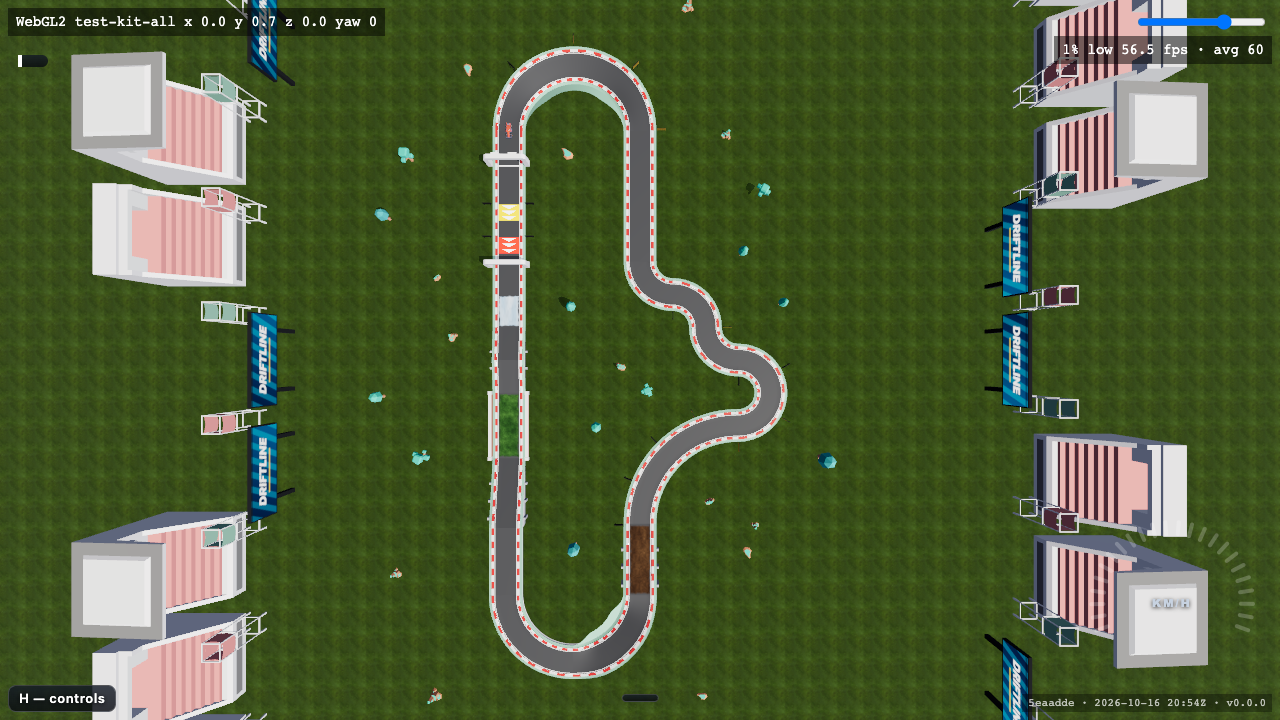
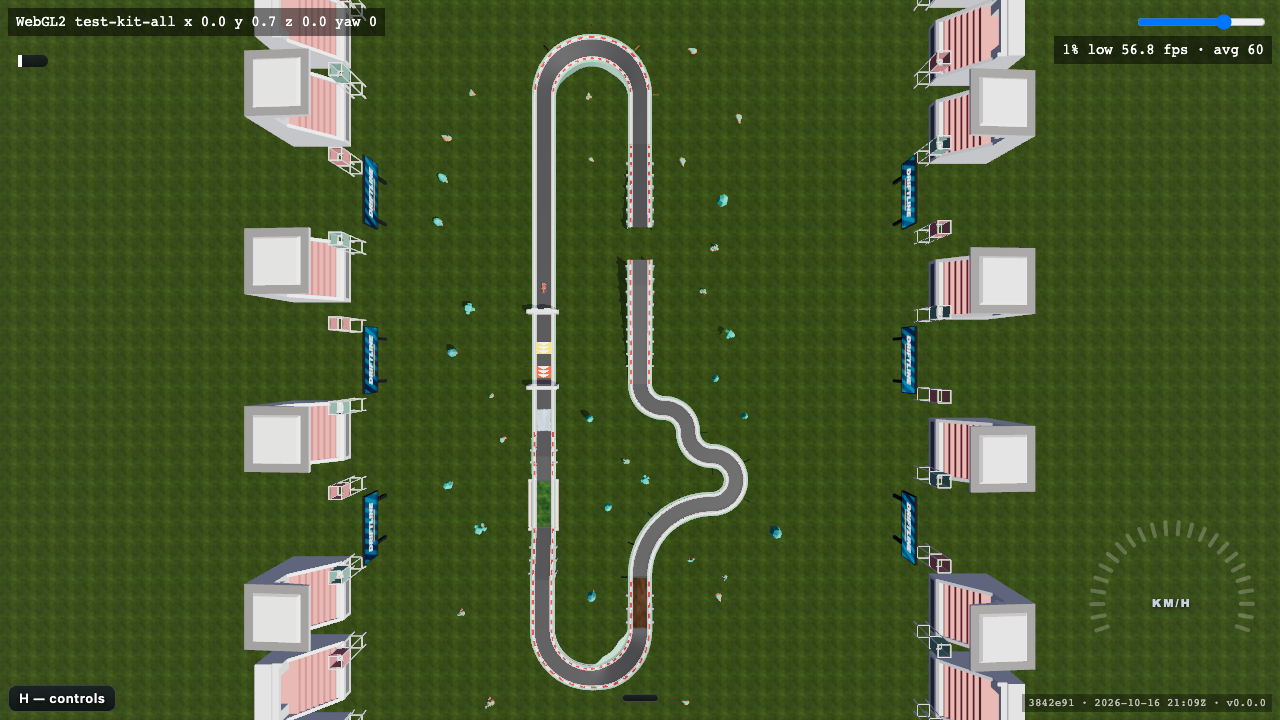
campaign A03-A05 from the piece kit; add gap-jump kit piece
- A03 plunge (green): 8 m deck plunges two levels into a banked 180
- A04 knot (blue): figure-eight, 8 m deck over the start straight, hairpin switchback
- A05 leap (red): 12 m climb, gap-jump onto a 4 m deck, ice into a banked 180
- gap-jump: crossover's kicker/gap/landing on the grid, two levels down;
  test-kit-all uses it, docs/track-kit.md row + shots
- all three in full-lap, cut searches (grass, skilled arcs, deck drop-offs),
  decks/pillars, scenery and topcam tests; full-throttle jump test on leap
  and test-kit-all; medals from measured autopilot laps

diff --git a/src/render/track/geometry.test.ts b/src/render/track/geometry.test.ts
@@ -2,6 +2,7 @@ import { describe, expect, it } from 'vitest'
 import { readFileSync } from 'node:fs'
 import { poses, SEGMENT_TYPES, validate } from '../../track/schema'
 import { FIXTURE_TRACK } from '../../track/fixture'
+import { resolveTrack } from '../../track/kit'
 import { trackSurface } from '../../physics'
 import type { Segment, Track } from '../../track/schema'
 import { buildApron, buildDeck, buildRampSupport, buildTrack, CENTRE_COLUMN, DECK_MIN_HEIGHT, DECK_PILLAR_CLEAR, planDeckPillars, PROFILE, rowCenter, TRACK_WIDTH, sampleSegment, SURFACE_LIFT, type SegmentGeometry } from './geometry'
@@ -151,7 +152,8 @@ describe('ramp profile', () => {
 })
 
 describe('multi-level decks', () => {
-  const load = (name: string) => JSON.parse(readFileSync(`assets/track/${name}.json`, 'utf8')) as Track
+  // Kit tracks compile to a plain Track; spline tracks pass through.
+  const load = (name: string) => resolveTrack(JSON.parse(readFileSync(`assets/track/${name}.json`, 'utf8'))) as Track
   const road = (track: Track) => {
     const ps = poses(track)
     return track.segments.flatMap((seg, i) =>
@@ -159,7 +161,7 @@ describe('multi-level decks', () => {
     )
   }
 
-  it.each(['crossover', 'tower'])('%s: every elevated flat piece gets a deck, gaps and ground pieces none', (name) => {
+  it.each(['crossover', 'tower', 'plunge', 'knot', 'leap'])('%s: every elevated flat piece gets a deck, gaps and ground pieces none', (name) => {
     const track = load(name)
     const ps = poses(track)
     track.segments.forEach((seg, i) => {
@@ -168,7 +170,7 @@ describe('multi-level decks', () => {
     })
   })
 
-  it.each(['crossover', 'tower'])('%s: deck pillars stand on open ground, never on the road underneath', (name) => {
+  it.each(['crossover', 'tower', 'plunge', 'knot', 'leap'])('%s: deck pillars stand on open ground, never on the road underneath', (name) => {
     const track = load(name)
     const pillars = planDeckPillars(track)
     expect(pillars.length).toBeGreaterThan(5)
@@ -179,7 +181,7 @@ describe('multi-level decks', () => {
     }
   })
 
-  it.each(['test1', 'test2', 'crossover', 'tower'])('%s: no ramp or drop wall stands on another part of the lap', (name) => {
+  it.each(['test1', 'test2', 'crossover', 'tower', 'plunge', 'knot', 'leap'])('%s: no ramp or drop wall stands on another part of the lap', (name) => {
     const track = load(name)
     const pts = road(track)
     for (const a of pts.filter((p) => ['ramp', 'drop'].includes(track.segments[p.seg].type))) {

diff --git a/src/race/full-lap.test.ts b/src/race/full-lap.test.ts
@@ -22,6 +22,11 @@ const CASES = [
   // Every kit piece type once: the catalogue track behind docs/track-kit.md.
   { track: load('test-kit-all'), minMs: 15_000, maxMs: 60_000 },
   { track: load('tower'), minMs: 40_000, maxMs: 65_000 },
+  // Kit campaign levels A03-A05: autopilot ~56 / ~63 / ~69 s, a ~38 / ~42 / ~46 s human lap; medals at
+  // crossover's and tower's ratios (author = 0.6 × autopilot, gold +8 %, silver +22 %, bronze +42 %).
+  { track: load('plunge'), minMs: 45_000, maxMs: 70_000 },
+  { track: load('knot'), minMs: 50_000, maxMs: 75_000 },
+  { track: load('leap'), minMs: 55_000, maxMs: 85_000 },
 ]
 
 describe.each(CASES)('$track.name end to end', ({ track, minMs, maxMs }) => {
@@ -89,10 +94,11 @@ describe.each(CASES)('$track.name end to end', ({ track, minMs, maxMs }) => {
 })
 
 // The conservative autopilot slows to jump speed before every ramp; a human floors it. At full
-// throttle the car flies ~9 m over crossover's landing checkpoint, which must still count.
-describe('crossover gap jump at full throttle', () => {
-  it('a car flat out from the long descent straight over the gap still scores every gate and finishes', () => {
-    const track = load('crossover')
+// throttle the car flies ~9 m over crossover's landing checkpoint, which must still count. leap and
+// test-kit-all jump the kit's gap-jump piece, crossover's jump on the grid.
+describe.each(['crossover', 'leap', 'test-kit-all'])('%s gap jump at full throttle', (name) => {
+  it('a car flat out from the run-up over the gap still scores every gate and finishes', () => {
+    const track = load(name)
     const gapAt = track.segments.findIndex((s) => s.type === 'gap')
     // centreline() emits 20 samples per segment: no slowdown from the descent straight to the landing.
     const samples = centreline(track).map((s, k) => {

diff --git a/src/track/kit.test.ts b/src/track/kit.test.ts
@@ -3,7 +3,7 @@ import { describe, expect, it } from 'vitest'
 import { trackSurface } from '../physics'
 import { buildDeck, DECK_MIN_HEIGHT, lateralPoint, planDeckPillars, PROFILE, sampleSegment } from '../render/track/geometry'
 import { compileKit, connectorPose, isKitTrack, KIT_PIECES, LEVEL, onGrid, outConnector, resolveTrack, type KitTrack, type PieceDef } from './kit'
-import { CELL, exitPose, poses, turnSign, validate, type Pose, type Turn } from './schema'
+import { CELL, exitPose, partialPose, poses, turnSign, validate, type Pose, type Turn } from './schema'
 
 const EPS = 1e-6
 const turnsOf = (def: PieceDef): Turn[] => (def.turns ? ['left', 'right'] : ['left'])
@@ -97,6 +97,13 @@ describe('track piece kit', () => {
         const surface = trackSurface({ name: def.id, start: entry, segments, gates: [] }, { groundY: null })
         let p = entry
         for (const seg of segments) {
+          if (seg.type === 'gap') {
+            // The jump's air: no road between the kicker and the landing.
+            const mid = partialPose(p, seg, 0.5)
+            expect(surface.raycast({ x: mid.x, y: mid.y + 2, z: mid.z }, { x: 0, y: -1, z: 0 }, 10), `${def.id} gap`).toBeNull()
+            p = exitPose(p, seg)
+            continue
+          }
           for (const t of [0, 0.25, 0.5, 0.75, 1]) {
             // Ends nudged inside the piece: exactly on the joint an arc's sweep test can wrap to 2π.
             const s = sampleSegment(p, seg, Math.min(1 - 1e-7, Math.max(1e-7, t)))

diff --git a/src/track/kit.ts b/src/track/kit.ts
@@ -14,7 +14,7 @@ export type KitSurface = 'road' | 'dirt' | 'ice' | 'grass'
 
 export const KIT_SURFACES: readonly KitSurface[] = ['road', 'dirt', 'ice', 'grass']
 
-/** What leaves a connector: road the car drives on. ('air' arrives with jump pieces.) */
+/** What leaves a connector: road the car drives on. A jump keeps its air inside the piece (gap-jump). */
 export type ConnectorKind = 'road'
 
 /**
@@ -118,6 +118,22 @@ export const KIT_PIECES: readonly PieceDef[] = [
     turns: true,
     out: road(0, 4, 0, 2),
     expand: (turn) => plain([{ type: 'banked', turn, radius: 2 * CELL, angle: 180, bank: KIT_BANK }]),
+  },
+  {
+    // Kicker, gap, landing: crossover's jump on the grid. Both connectors are road; the air is
+    // inside the piece. The landing slope lies under the flight arc from ~16 m/s (the autopilot's
+    // jump speed) to flat out, so slow and fast cars both touch down on the downslope.
+    id: 'gap-jump',
+    family: 'slope',
+    surfaces: ROAD_ONLY,
+    turns: false,
+    out: road(6, 0, -2, 0),
+    expand: () =>
+      plain([
+        { type: 'ramp', length: CELL, rise: 1 },
+        { type: 'gap', length: 1.4 * CELL, fall: LEVEL },
+        { type: 'drop', length: 3.6 * CELL, fall: 2 * LEVEL - 3 },
+      ]),
   },
   flat('turbo', 'effect', { zones: [{ kind: 'turbo', segment: 0, from: 0.25, to: 0.75 }] }),
   flat('turbo-red', 'effect', { zones: [{ kind: 'turbo-red', segment: 0, from: 0.25, to: 0.75 }] }),

diff --git a/src/race/cuts.test.ts b/src/race/cuts.test.ts
@@ -95,7 +95,7 @@ function legs(track: Track): { name: string; from: Pose; to: Pose }[] {
   return out
 }
 
-describe.each(['test1', 'test2', 'crossover', 'tower'])('%s grass cuts', (name) => {
+describe.each(['test1', 'test2', 'crossover', 'tower', 'plunge', 'knot', 'leap'])('%s grass cuts', (name) => {
   const track = loadTrack(name)
   const surface = trackSurface(track)
   const road = roadRun(track)
@@ -159,7 +159,7 @@ function follow(start: CarState, samples: Sample[], target: Pose, surface: Surfa
   return { ticks: Infinity, grass }
 }
 
-describe.each(['test1', 'test2', 'crossover', 'tower'])('%s skilled grass lines', (name) => {
+describe.each(['test1', 'test2', 'crossover', 'tower', 'plunge', 'knot', 'leap'])('%s skilled grass lines', (name) => {
   const track = loadTrack(name)
   const surface = trackSurface(track)
   const road = roadRun(track)
@@ -262,7 +262,7 @@ function dropRun(start: CarState, approach: Point, target: Pose, surface: Surfac
   return { ticks: Infinity, grass }
 }
 
-describe.each(['crossover', 'tower'])('%s deck drop-offs', (name) => {
+describe.each(['crossover', 'tower', 'plunge', 'knot', 'leap'])('%s deck drop-offs', (name) => {
   const track = loadTrack(name)
   const surface = trackSurface(track)
   const road = roadRun(track)

diff --git a/src/track/catalogue.test.ts b/src/track/catalogue.test.ts
@@ -50,6 +50,11 @@ describe('track catalogue', () => {
     expect(ranks.every((r, i) => r >= 0 && (i === 0 || r >= ranks[i - 1]))).toBe(true)
   })
 
+  it('every campaign level ships, so the Campaign group lists A01-A05 in order', () => {
+    for (const l of CAMPAIGN) expect(shipped).toContain(l.track)
+    expect(trackGroups(shipped)[0].entries.map((e) => e.label)).toEqual(['A01', 'A02', 'A03', 'A04', 'A05'])
+  })
+
   it('every listed test track ships, and ≥ 5 single-feature test tracks exist', () => {
     for (const t of TEST_TRACKS) expect(shipped).toContain(t)
     expect(shipped.filter((n) => n.startsWith('test-')).length).toBeGreaterThanOrEqual(5)

diff --git a/src/render/scenery.test.ts b/src/render/scenery.test.ts
@@ -4,7 +4,7 @@ import { loadLap } from '../track/registry'
 import { FIXTURE_TRACK } from '../track/fixture'
 import { CLEARANCE, planScenery } from './scenery'
 
-const tracks = { test1: loadLap('test1'), test2: loadLap('test2'), crossover: loadLap('crossover'), tower: loadLap('tower'), fixture: FIXTURE_TRACK }
+const tracks = { test1: loadLap('test1'), test2: loadLap('test2'), crossover: loadLap('crossover'), tower: loadLap('tower'), plunge: loadLap('plunge'), knot: loadLap('knot'), leap: loadLap('leap'), fixture: FIXTURE_TRACK }
 
 describe('planScenery', () => {
   for (const [name, track] of Object.entries(tracks)) {

diff --git a/src/track/catalogue.ts b/src/track/catalogue.ts
@@ -18,6 +18,10 @@ export interface CampaignLevel {
 export const CAMPAIGN: readonly CampaignLevel[] = [
   { id: 'A01', track: 'crossover', tier: 'white' },
   { id: 'A02', track: 'tower', tier: 'white' },
+  // Built from the piece kit (src/track/kit.ts), in rising difficulty.
+  { id: 'A03', track: 'plunge', tier: 'green' },
+  { id: 'A04', track: 'knot', tier: 'blue' },
+  { id: 'A05', track: 'leap', tier: 'red' },
 ]
 
 /** Test-track order; any other `test*` track follows these. */

diff --git a/src/render/topcam.test.ts b/src/render/topcam.test.ts
@@ -9,7 +9,7 @@ describe('?cam=top', () => {
     expect(topCamRequested('?freeze=1')).toBe(false)
   })
 
-  for (const name of ['test1', 'test2', 'crossover', 'tower']) {
+  for (const name of ['test1', 'test2', 'crossover', 'tower', 'plunge', 'knot', 'leap']) {
     it(`${name}: every centreline point is inside the view`, () => {
       const track = loadLap(name)
       const fov = 70

diff --git a/docs/track-kit.md b/docs/track-kit.md
@@ -28,7 +28,7 @@ Trackmania-style drivable pieces that snap on a grid (`src/track/kit.ts`). A tra
 }
 ```
 
-The lap must close back onto its start connector; `compileKit()` throws naming the piece otherwise. `test-kit` is the demo, `test-kit-all` uses every piece once.
+The lap must close back onto its start connector; `compileKit()` throws naming the piece otherwise. `test-kit` is the demo, `test-kit-all` uses every piece once. The campaign levels A03 `plunge`, A04 `knot` and A05 `leap` are kit tracks too.
 
 ![test-kit-all from above](track-kit-overview.png)
 
@@ -50,7 +50,8 @@ Screenshots: live site, `?track=test-kit-all&cam=fly&freeze=1&renderer=webgl2` p
 | `slope-down` | slope | (2, 0, −1, 0) | `drop` 20 m, −4 m | road, dirt, ice, grass | One level down; here in dirt. | [`x=26&y=13&z=152&yaw=147.5&pitch=-22.9`](https://bborbe.github.io/driftline/?track=test-kit-all&x=26&y=13&z=152&yaw=147.5&pitch=-22.9&cam=fly&freeze=1&renderer=webgl2) | ![slope-down](track-kit/slope-down.png) |
 | `bump` | slope | (2, 0, 0, 0) | `ramp` 10 m +1 m, `drop` 10 m −1 m | road, dirt, ice, grass | Unloads the suspension at speed. | [`x=14&y=12&z=48&yaw=-32.5&pitch=-22.9`](https://bborbe.github.io/driftline/?track=test-kit-all&x=14&y=12&z=48&yaw=-32.5&pitch=-22.9&cam=fly&freeze=1&renderer=webgl2) | ![bump](track-kit/bump.png) |
 | `bank-90` | bank | (2, ±2, 0, ±1) | `banked` 90°, r 20 m, 0.26 rad | road | Bank eases in and out inside the piece, so both connectors are flat. | [`x=12.1&y=15&z=140.1&yaw=57.5&pitch=-22.9`](https://bborbe.github.io/driftline/?track=test-kit-all&x=12.1&y=15&z=140.1&yaw=57.5&pitch=-22.9&cam=fly&freeze=1&renderer=webgl2) | ![bank-90](track-kit/bank-90.png) |
-| `bank-180` | bank | (0, ±4, 0, ±2) | `banked` 180°, r 20 m, 0.26 rad | road | Closes the lap back onto the start straight. | [`x=6&y=11&z=2&yaw=147.5&pitch=-22.9`](https://bborbe.github.io/driftline/?track=test-kit-all&x=6&y=11&z=2&yaw=147.5&pitch=-22.9&cam=fly&freeze=1&renderer=webgl2) | ![bank-180](track-kit/bank-180.png) |
+| `bank-180` | bank | (0, ±4, 0, ±2) | `banked` 180°, r 20 m, 0.26 rad | road | Closes the lap back onto the start straight. | [`x=6&y=11&z=-78&yaw=147.5&pitch=-22.9`](https://bborbe.github.io/driftline/?track=test-kit-all&x=6&y=11&z=-78&yaw=147.5&pitch=-22.9&cam=fly&freeze=1&renderer=webgl2) | ![bank-180](track-kit/bank-180.png) |
+| `gap-jump` | slope | (6, 0, −2, 0) | `ramp` 10 m +1 m, `gap` 14 m −4 m, `drop` 36 m −5 m | road | crossover's jump on the grid: kicker, open air, landing slope under the flight arc; flat out it still lands on the slope. Two levels down. | [`x=85&y=12&z=-15&yaw=-90&pitch=-12`](https://bborbe.github.io/driftline/?track=test-kit-all&x=85&y=12&z=-15&yaw=-90&pitch=-12&cam=fly&freeze=1&renderer=webgl2) | ![gap-jump](track-kit/gap-jump.png) |
 | `turbo` | effect | (1, 0, 0, 0) | `straight` 10 m + `turbo` zone 0.25–0.75 | road | Yellow pad; direction from `padForward()`. | [`x=14&y=11&z=3&yaw=-32.5&pitch=-22.9`](https://bborbe.github.io/driftline/?track=test-kit-all&x=14&y=11&z=3&yaw=-32.5&pitch=-22.9&cam=fly&freeze=1&renderer=webgl2) | ![turbo](track-kit/turbo.png) |
 | `turbo-red` | effect | (1, 0, 0, 0) | `straight` 10 m + `turbo-red` zone 0.25–0.75 | road | Red pad: stronger boost. | [`x=14&y=11&z=13&yaw=-32.5&pitch=-22.9`](https://bborbe.github.io/driftline/?track=test-kit-all&x=14&y=11&z=13&yaw=-32.5&pitch=-22.9&cam=fly&freeze=1&renderer=webgl2) | ![turbo-red](track-kit/turbo-red.png) |
 | `checkpoint` | gate | (1, 0, 0, 0) | `straight` 10 m + `checkpoint` gate | road | Solid arch pillars; counts only under the arch. | [`x=14&y=11&z=23&yaw=-32.5&pitch=-22.9`](https://bborbe.github.io/driftline/?track=test-kit-all&x=14&y=11&z=23&yaw=-32.5&pitch=-22.9&cam=fly&freeze=1&renderer=webgl2) | ![checkpoint](track-kit/checkpoint.png) |
@@ -59,6 +60,5 @@ Screenshots: live site, `?track=test-kit-all&cam=fly&freeze=1&renderer=webgl2` p
 
 ## Not in the kit yet
 
-- Jump (ramp + `gap` + landing): the `gap` segment is on master; the piece needs an `air` connector kind.
 - Loops, wallrides, pipes, banks over 0.6 rad: need gravity along the surface normal and multi-valued height.
 - Walls on elevated road and ceilings: barriers stand on y = 0, and road has no body collision.

diff --git a/README.md b/README.md
@@ -16,6 +16,7 @@ The start screen shows two groups (↑/↓ switches group, ←/→ picks a track
 
 - **Campaign** — numbered levels (`A01`, `A02`, …) in difficulty tiers (white → green → blue → red → black), each with author/gold/silver/bronze medals. Order and tiers live in `src/track/catalogue.ts`; a level is listed once its `assets/track/<name>.json` ships.
   - `A01 crossover` and `A02 tower` are multi-level: the road climbs onto concrete decks on pillars and passes over itself. crossover is a figure-eight with an 8 m bridge over the start straight, then a 14 m gap jump (a `gap` segment is open air). tower has a 60 m climb into a steep 34° banked 180 at 12 m, a bridge over the start straight and a 12 m drop into a banked turn. A checkpoint counts from 2 m below its road to 20 m above, so a road under a deck gate never triggers it, while a full-throttle jump over the arch still does.
+  - `A03 plunge`, `A04 knot` and `A05 leap` are built entirely from the [track piece kit](docs/track-kit.md), in rising difficulty. plunge climbs onto an 8 m deck and plunges two levels straight into a banked 180. knot is a figure-eight whose 8 m deck, entered and left through banked and deck curves, crosses over the start straight, then a dirt run and a hairpin switchback. leap climbs to 12 m and jumps a `gap-jump` onto a 4 m deck, banks round at 4 m, then ice into a banked 180, a red turbo and dirt.
 - **Test** — tracks for checking one thing fast. `test1` and `test2` are the original lap1/lap2 (`?track=lap1` / `?track=lap2` still open them, and their best times, boards and medals carry over). The single-feature tracks are short ovals that an autopilot laps in ≤ 20 s with no respawn:
 
 | Track | Checks |
